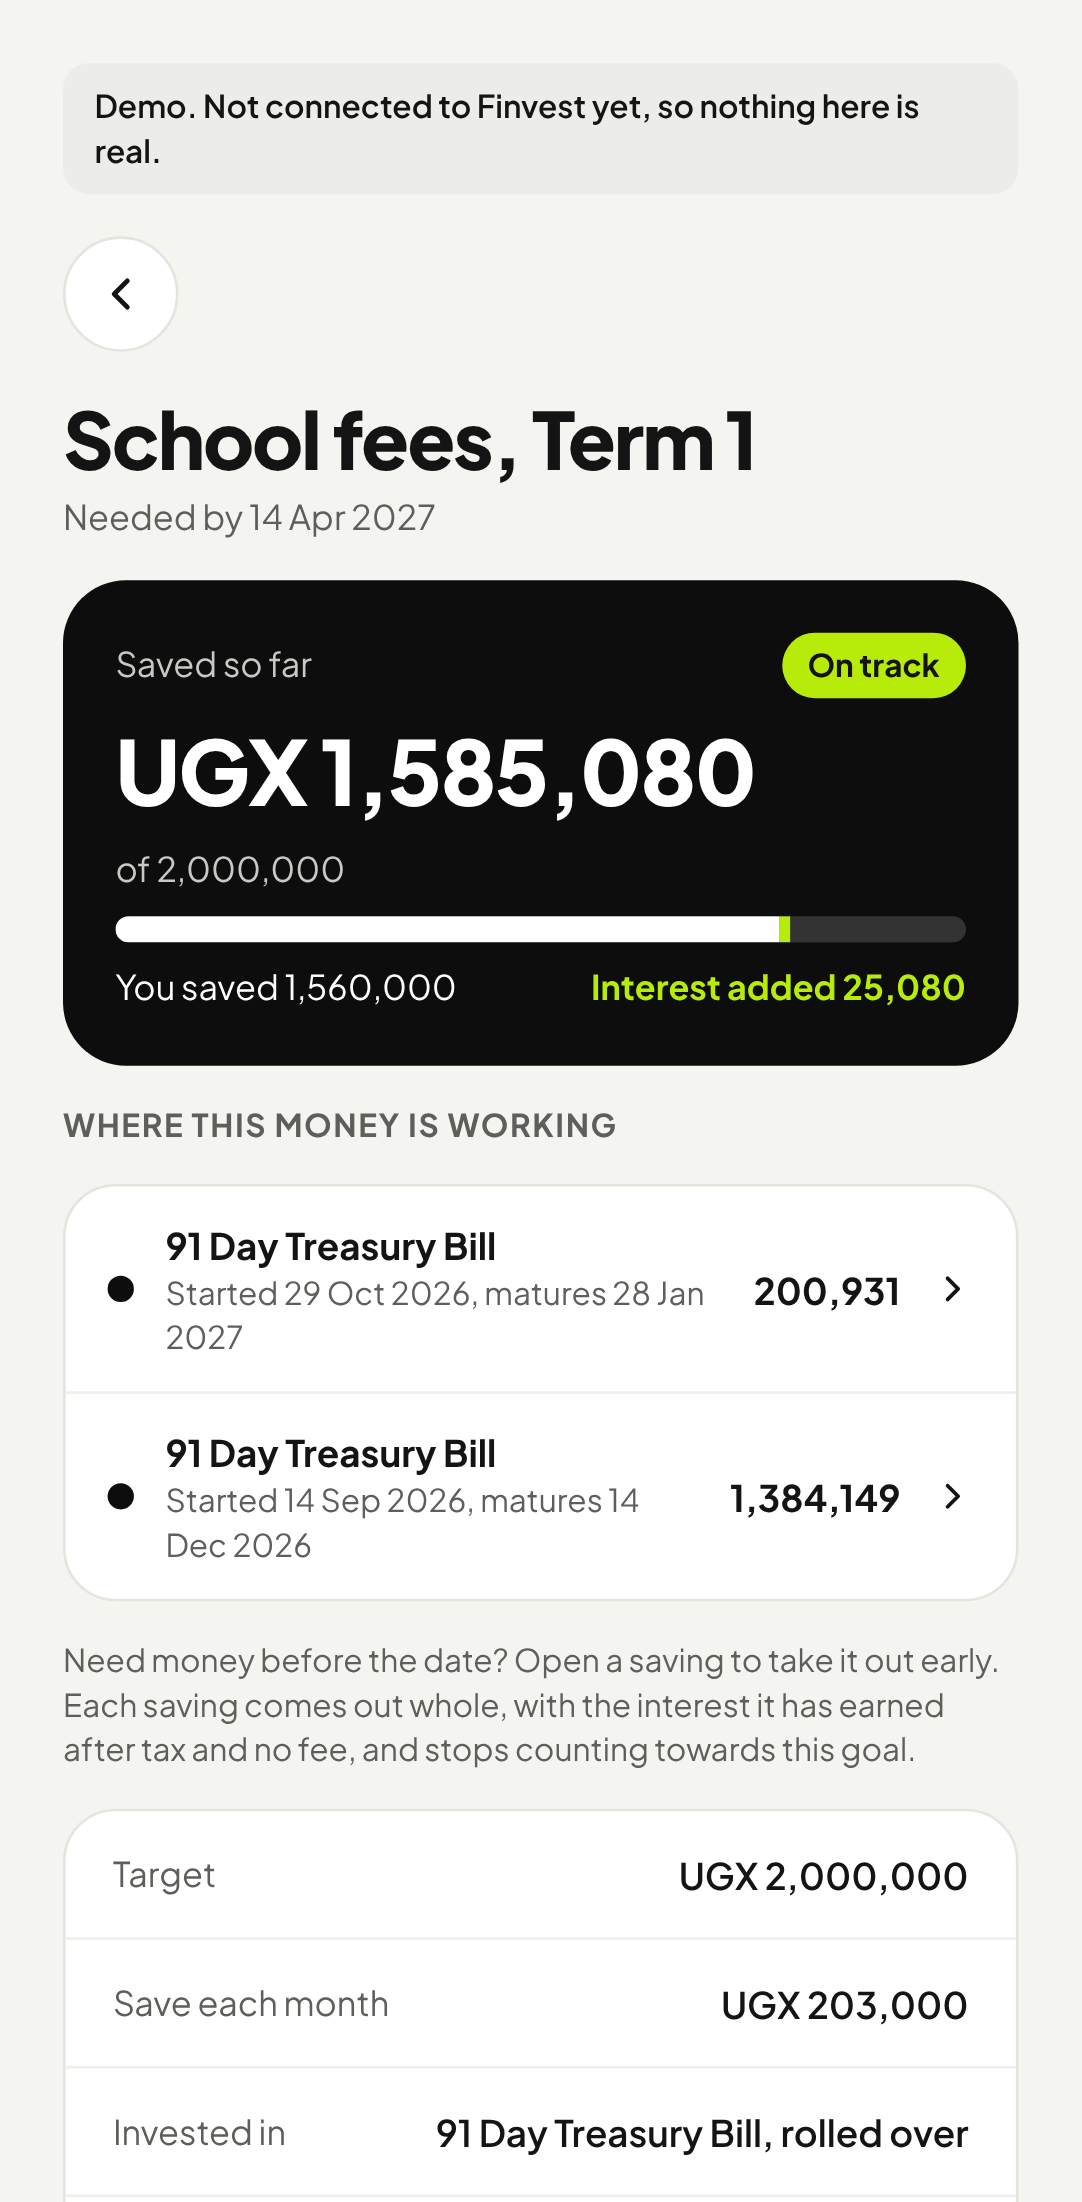
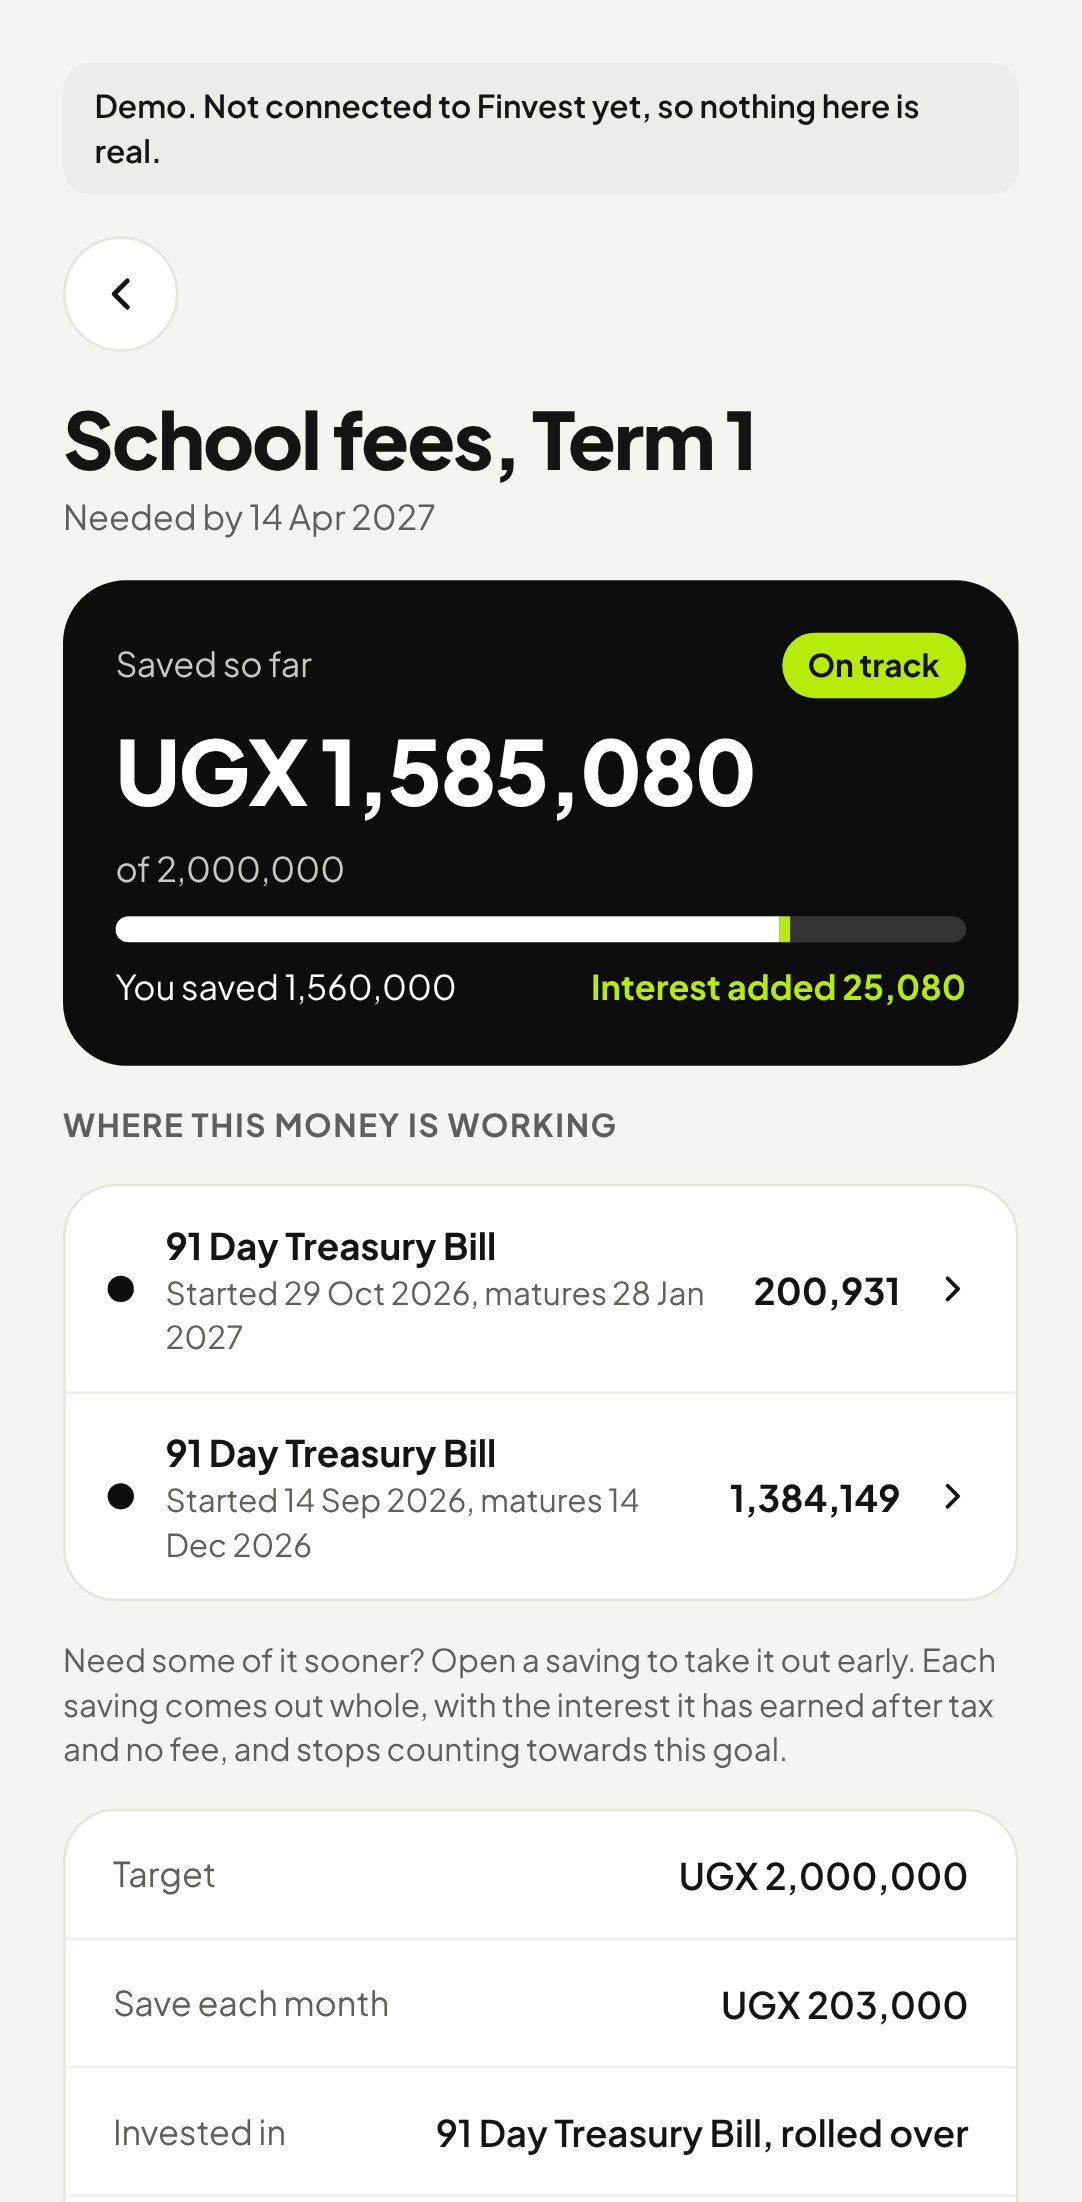
Show a saving taken out early in the demo goal
The emergency fund demo now has one saving withdrawn early, so the greyed
row can be seen, and the note asks about needing money sooner, which also
reads right on a goal with no date.

Changed region(s): [[0.061, 0.7411, 0.915, 0.8029]]

diff --git a/apps/client/src/goals/stubGoalsClient.ts b/apps/client/src/goals/stubGoalsClient.ts
@@ -34,6 +34,8 @@ type StoredSaving = {
   createdOn: string;
   /** Null until paid. In the demo a saving is paid the moment it is confirmed. */
   startDate: string | null;
+  /** The day it was taken out early. It stops earning then and no longer counts. */
+  withdrawnOn?: string;
 };
 
 type StoredGoal = {
@@ -86,7 +88,7 @@ export function createStubGoalsClient(options: StubOptions = {}): GoalsClient {
       return { value: 0, interest: 0 };
     }
     const days = Math.min(
-      Math.max(daysBetween(saving.startDate, today()), 0),
+      Math.max(daysBetween(saving.startDate, saving.withdrawnOn ?? today()), 0),
       saving.product.termDays,
     );
     const interest = netInterest(saving.amount, saving.product, days);
@@ -98,6 +100,9 @@ export function createStubGoalsClient(options: StubOptions = {}): GoalsClient {
     let interest = 0;
     let waiting = 0;
     for (const saving of goal.savings) {
+      if (saving.withdrawnOn) {
+        continue;
+      }
       if (saving.startDate) {
         const worth = valueOf(saving);
         value += worth.value;
@@ -134,7 +139,11 @@ export function createStubGoalsClient(options: StubOptions = {}): GoalsClient {
       .slice()
       .reverse()
       .map((saving) => {
-        const status: SavingStatus = saving.startDate ? "active" : "awaiting_payment";
+        const status: SavingStatus = saving.withdrawnOn
+          ? "withdrawn"
+          : saving.startDate
+            ? "active"
+            : "awaiting_payment";
         return {
           investmentId: saving.investmentId,
           productName: saving.product.name,
@@ -143,9 +152,10 @@ export function createStubGoalsClient(options: StubOptions = {}): GoalsClient {
           value: ugx(valueOf(saving).value),
           payBy: new Date(now() + 72 * 3_600_000).toISOString(),
           startDate: saving.startDate,
-          maturityDate: saving.startDate
-            ? addDays(saving.startDate, saving.product.termDays)
-            : null,
+          maturityDate:
+            saving.startDate && !saving.withdrawnOn
+              ? addDays(saving.startDate, saving.product.termDays)
+              : null,
         };
       });
     return {
@@ -243,6 +253,15 @@ export function createStubGoalsClient(options: StubOptions = {}): GoalsClient {
           amount: 1_000_000,
           createdOn: addMonths(start, -1),
           startDate: addMonths(start, -1),
+        },
+        {
+          // Taken out early, to show a saving that no longer counts towards its goal.
+          investmentId: nextId("inv"),
+          product: product("TREA-91"),
+          amount: 250_000,
+          createdOn: addMonths(start, -1),
+          startDate: addMonths(start, -1),
+          withdrawnOn: addDays(start, -6),
         },
       ],
     };

diff --git a/apps/client/src/goals/__tests__/stubGoalsClient.test.ts b/apps/client/src/goals/__tests__/stubGoalsClient.test.ts
@@ -92,3 +92,15 @@ describe("the demo goals", () => {
     await expect(client().getGoal("nope")).rejects.toEqual(new GoalError("not_found"));
   });
 });
+
+describe("a saving taken out early in the demo", () => {
+  it("is listed as withdrawn and leaves the goal's value", async () => {
+    const goals = await createStubGoalsClient({ delayMs: 0, now: () => NOW, seeded: true }).listGoals();
+    const emergency = goals.find((goal) => goal.name === "Emergency fund");
+    const withdrawn = emergency?.savings.filter((saving) => saving.status === "withdrawn") ?? [];
+    expect(withdrawn).toHaveLength(1);
+    expect(withdrawn[0]?.value.minor).toBeGreaterThan(250_000);
+    const running = emergency?.savings.find((saving) => saving.status === "active");
+    expect(emergency?.progress.value).toEqual(running?.value);
+  });
+});

diff --git a/apps/client/src/app/goals/[goalId].tsx b/apps/client/src/app/goals/[goalId].tsx
@@ -143,7 +143,7 @@ export default function GoalDetail() {
 
           {open && goal.savings.some((saving) => saving.status === "active") ? (
             <Txt size={12} color={colors.muted} testID="goal-take-out-note">
-              Need money before the date? Open a saving to take it out early. Each saving comes out
+              Need some of it sooner? Open a saving to take it out early. Each saving comes out
               whole, with the interest it has earned after tax and no fee, and stops counting towards
               this goal.
             </Txt>
